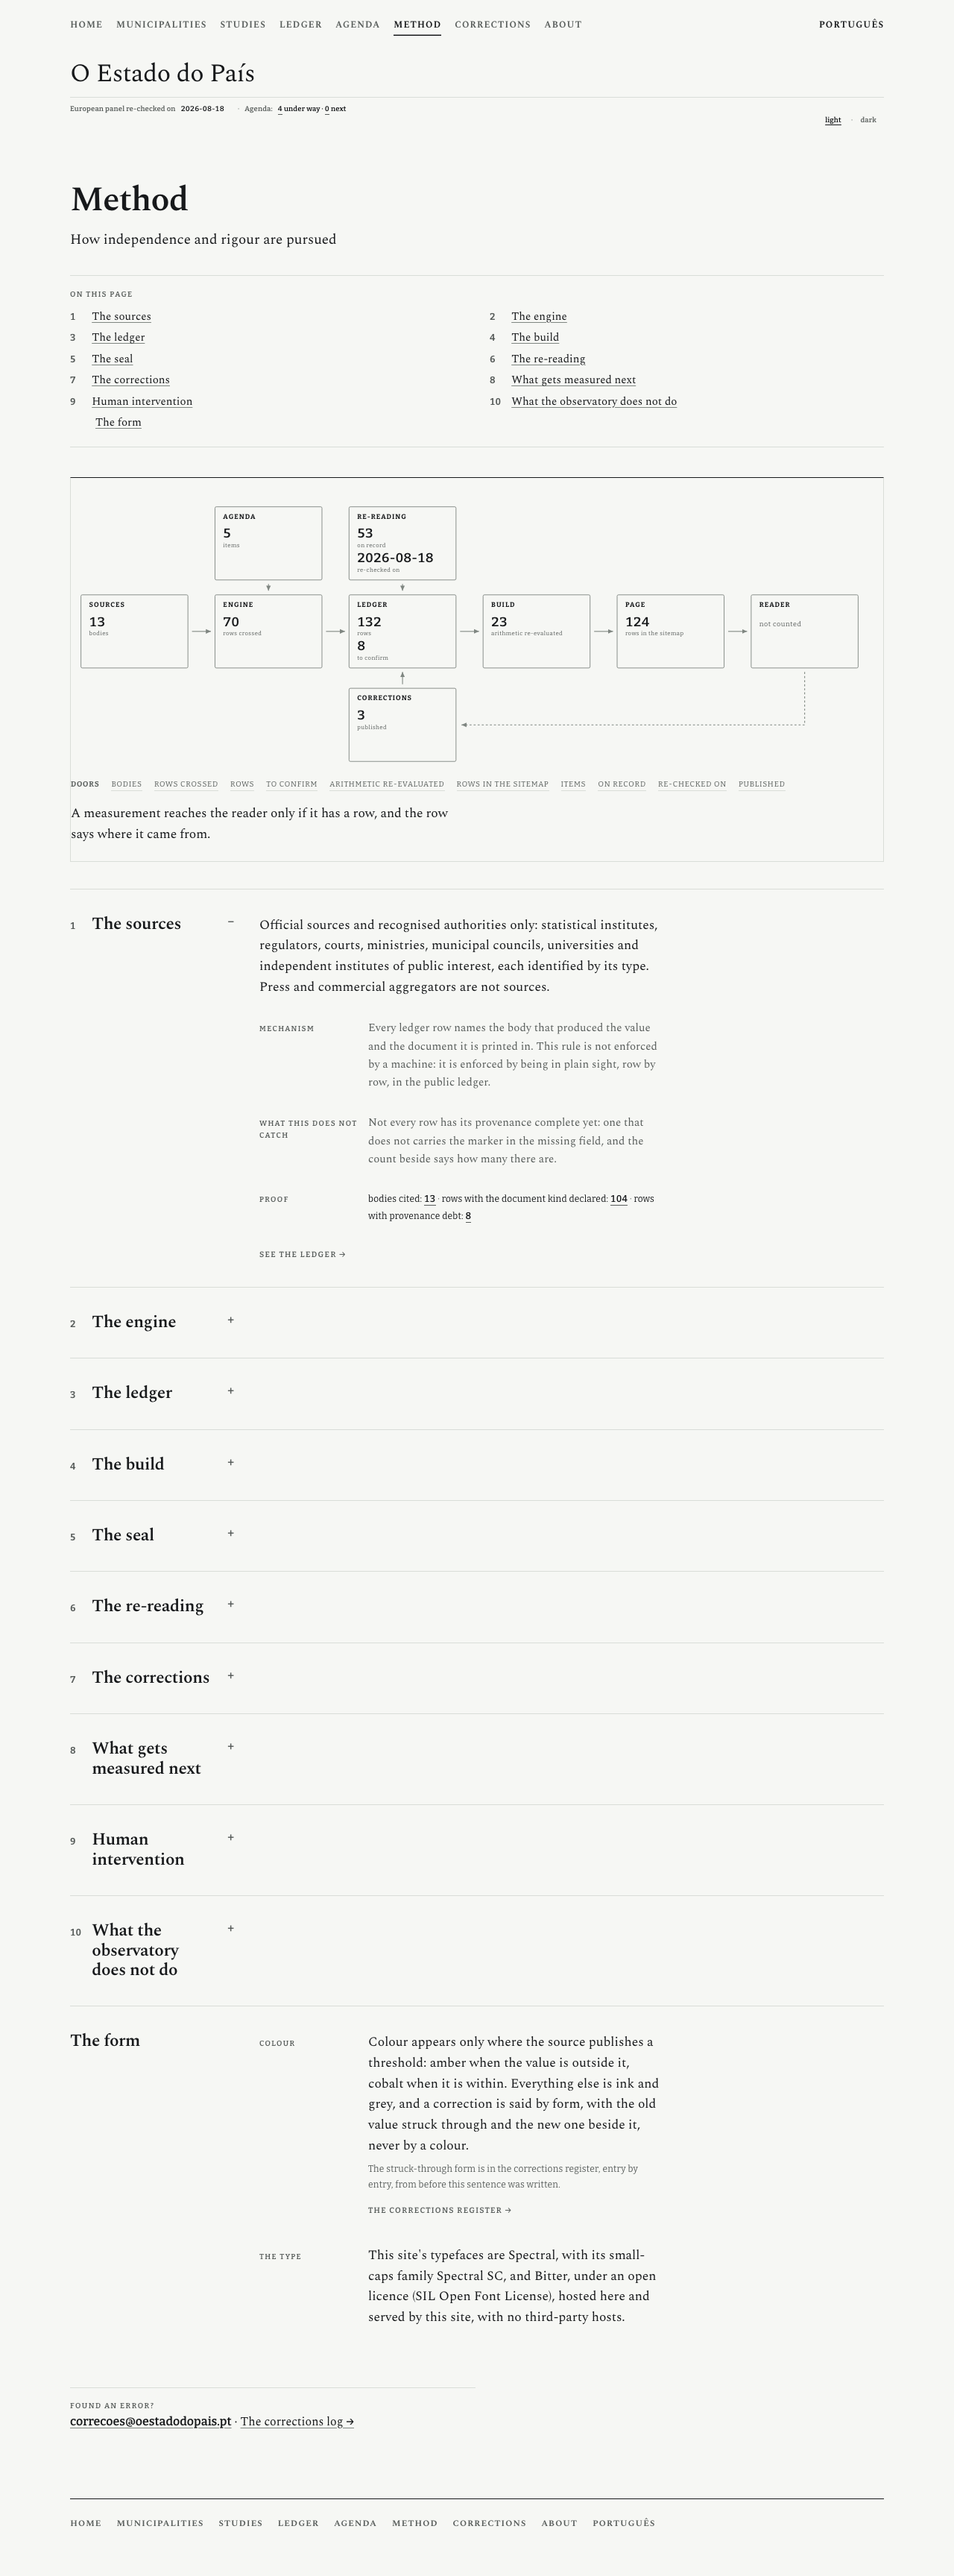
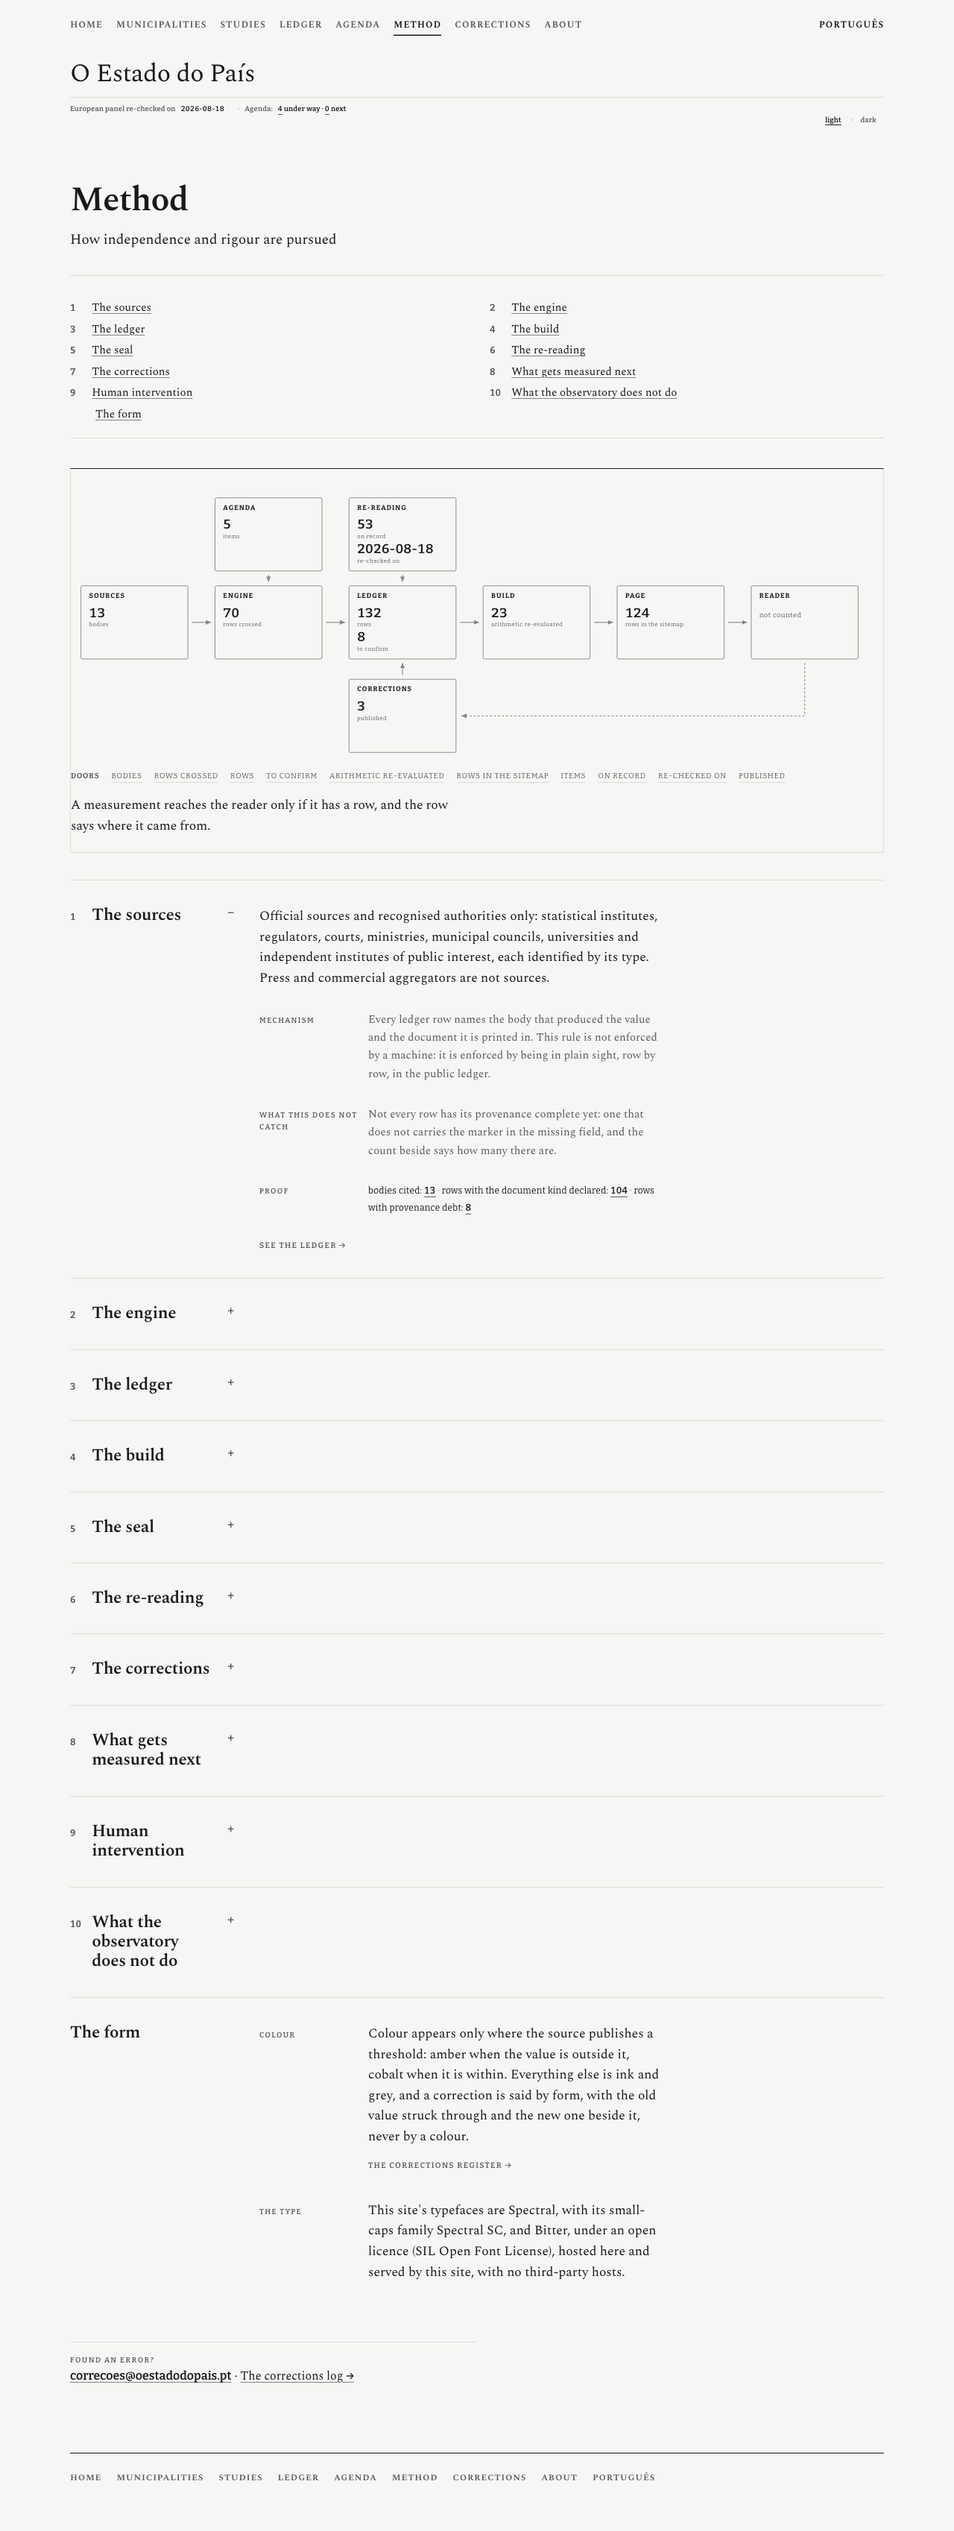
etapa 4, fecho: as réguas, a invariância contra a 4a, e um defeito da 4c apanhado a 390
O sumário do Método rendia «1As fontes», sem goma entre o número e o nome, e só
no telemóvel. A causa foi minha, na 4c: para tirar a coluna do número ao sumário
da Agenda escrevi um selector sobre «li sem classe», e as dez regras do Método
também são li sem classe. Passa a ser a etiqueta da lista, que é o que distingue
mesmo as duas: o Método numera e escreve ol, a Agenda não numera e escreve ul.
Uma regra escrita a partir do que o marcador não tem apanha tudo o que não o tem.

As réguas: build, verify e ledger:check a zero; medir-defeitos com 36 rotas
inventariadas, as 36 a zero de autorreferência e nenhum bloco por classificar;
medir-contraste sem falhas de texto e sem cor nova nesta etapa; as chaves iguais
nas duas edições continuam 20, como na 2m.

A ortografia falha a 1 e é anterior a esta etapa: «tecto» numa comparação de
cadeias num componente da primeira página, que não é meu e não é texto
publicado. Corri a régua na construção da linha de base e falha lá igual. Fica
escrita na nota e nos pedidos em vez de corrigida à socapa.

A invariância, contra uma construção de def04ff num worktree: 322 rotas, 293
idênticas em texto, 29 com diferenças, e as 29 são exactamente as rotas que a
etapa reconstruiu. O +27 −0 do Método foi recontado com uma extracção própria,
porque a régua imprime cinco linhas por rota: 20 são o sumário e 7 a entrada de
fecho. Nada saiu do Método.

Trinta e oito capturas, no tema claro, a 1280 e a 390, nas duas edições.
[…]

diff --git a/src/styles/leitura.css b/src/styles/leitura.css
@@ -223,8 +223,14 @@
 
 /* O sumário da Agenda usa as classes do sumário do Método sem uma regra nova: é
    a mesma peça na mesma folha. O que ele não leva é a coluna do número, porque
-   os estados não são numerados; a lista corre em duas colunas na mesma. */
-.metodo-sumario-lista li:not([class]) {
+   os estados não são numerados, e por isso o item não é uma caixa flexível de
+   duas partes: é uma linha.
+
+   O SELECTOR É A ETIQUETA DA LISTA, e não «um `li` sem classe»: as dez regras do
+   Método também são `li` sem classe, e `:not([class])` apagava-lhes a goma entre
+   o número e o nome — «1As fontes». O Método numera e escreve `<ol>`; a Agenda
+   não numera e escreve `<ul>`. */
+ul.metodo-sumario-lista li {
   display: block;
 }
 

diff --git a/design/especime-v3/notas/stage-4.md b/design/especime-v3/notas/stage-4.md
@@ -741,7 +741,122 @@ de outro construtor e está em duas páginas, e escolher entre os dois é forma.
 
 ---
 
-## 8. O que fica pedido
+## 8. Subetapa 4f · o fecho
+
+### 8.1 · Um defeito da 4c, apanhado a fotografar a 390
+
+O sumário do Método rendia **«1As fontes»**, sem goma entre o número e o nome, e
+só no telemóvel. A causa foi minha, na 4c: para tirar a coluna do número ao
+sumário da Agenda escrevi `.metodo-sumario-lista li:not([class])`, e as dez
+regras do Método também são `li` sem classe — a regra apanhou-as e desligou-lhes
+a caixa flexível. O selector passa a ser a etiqueta da lista, que é o que
+distingue mesmo as duas: **o Método numera e escreve `<ol>`, a Agenda não numera
+e escreve `<ul>`**.
+
+Vai escrito aqui porque é a lição e não o erro: uma regra escrita a partir do que
+o marcador **não tem** apanha tudo o que não o tem.
+
+### 8.2 · As réguas
+
+```
+npm run build         exit 0
+npm run verify        exit 0
+npm run ledger:check  exit 0   (24 entradas a partir da §1.38, 2 textos governados)
+node scripts/medir-defeitos.mjs      exit 0
+node scripts/medir-contraste.mjs     exit 0
+node scripts/medir-tipos.mjs         exit 0
+node scripts/medir-invariancia.mjs --chaves   → 20 chaves iguais nas duas edições
+node scripts/ortografia.mjs          exit 1   (ver 8.4)
+```
+
+**O inventário**, `medir-defeitos.mjs`: **36 rotas inventariadas, as 36 a zero de
+autorreferência, e nenhum bloco por classificar em nenhuma delas.** A lista
+declarada tem 413 entradas, onde a etapa 3 a deixou com 267. A etapa entrou com
+`/agenda`, `/estudos` e as vinte e duas rotas de trabalho.
+
+**O contraste**, `medir-contraste.mjs`: 0 falhas de texto, 4 objetos de interface
+abaixo de 3:1, os mesmos da etapa 1 e nenhum desta. Nenhuma cor nova entrou na
+etapa 4: a única mudança de cor foi um `fill` que passou a nomear o cinzento que
+a folha já pintava.
+
+**As chaves**, `medir-invariancia.mjs --chaves`: **20**, o mesmo número da 2m.
+A etapa não criou nenhuma identidade nova — `leitura.sumarioK` é «Nesta página» /
+«On this page», que são cadeias diferentes.
+
+### 8.3 · A invariância, contra a construção da 4a
+
+Construção da linha de base num `git worktree` em `3a51cb8` (o commit da 4a),
+comparada com a de agora:
+
+```
+322 rotas · 293 idênticas em texto · 29 com diferenças
+```
+
+**As 29 são exactamente as rotas que a etapa reconstruiu**, e nenhuma outra:
+
+| rota(s) | o quê |
+|---|---|
+| `/metodo`, `/en/method` | `+27 −0` |
+| `/agenda`, `/en/agenda` | `+10 −6` |
+| `/municipios/evora`, `/en/municipalities/evora` | `+1 −3` |
+| `/404` | `+1 −1` |
+| as 22 rotas de trabalho (11 × 2 edições) | `+0 −4`, `+0 −3` ou `+1 −4` |
+
+**O `+27 −0` do Método vale a explicação**, porque um número grande sem nada
+retirado parece um erro de leitura. A régua imprime só cinco linhas por rota, e
+por isso recontei o diferencial inteiro com uma extracção própria, que dá o mesmo
+27: **20** são o sumário (os dez números e os dez nomes das regras passam a
+aparecer **duas** vezes na página, e a régua conta ocorrências) e **7** são a
+entrada de fecho («A forma» duas vezes, «A cor» e a sua frase, a porta, «A letra»
+e a sua frase). **Nada saiu do Método**, e é isso que o `−0` diz.
+
+**O `/estudos` e o `/en/studies` não aparecem na lista**, e está certo: a 4e
+mexeu nas páginas de trabalho e na folha, e não numa palavra do índice.
+
+### 8.4 · A régua da ortografia falha, e não é desta etapa
+
+`node scripts/ortografia.mjs` sai a **1**, com uma forma fora da grafia da casa:
+
+```
+src/components/inicio/Peca.astro:216:32  tecto → teto
+    … {regua.rotulo === 'tecto' && ( <Fragment slot="refer…
+```
+
+**Corri a mesma régua na construção da linha de base** (`3a51cb8`) e ela falha lá
+exactamente da mesma maneira: é anterior a esta etapa. É uma comparação de
+cadeias dentro de um componente da primeira página, que é de outro construtor, e
+**não é texto publicado**: `grep -o tecto dist/` dá três ficheiros, e os três são
+o nome de uma classe de CSS (`mun-tecto-rot`), nunca uma palavra que um leitor
+veja. A régua não entra no `npm run build`. Fica escrita aqui em vez de corrigida
+à socapa num ficheiro que não é meu.
+
+### 8.5 · As capturas
+
+`node tests/inicio/capturas.mjs --etapa-4` → **38 capturas** em
+`../capturas/etapa-4/`, todas no tema claro, a 1280 e a 390, nas duas edições:
+
+| rota | ficheiro |
+|---|---|
+| `/metodo` · `/en/method` | `metodo-{1280,390}-{pt,en}-claro.png` |
+| a entrada de fecho, recorte | `metodo-fecho-1280-{pt,en}-claro.png` |
+| `/agenda` · `/en/agenda` | `agenda-{1280,390}-{pt,en}-claro.png` |
+| o eixo do calendário, recorte | `agenda-eixo-1280-{pt,en}-claro.png` |
+| `/correcoes` · `/en/corrections` | `correcoes-{1280,390}-{pt,en}-claro.png` |
+| `/sobre` · `/en/about` | `sobre-{1280,390}-{pt,en}-claro.png` |
+| `/estudos` · `/en/studies` | `estudos-{1280,390}-{pt,en}-claro.png` |
+| `/estudos/agua-nao-faturada` (documento alojado, página por escrever) | `estudo-agua-{1280,390}-{pt,en}-claro.png` |
+| `/estudos/evora-prometido-pago-auditado-2026` (leitura publicada) | `estudo-leitura-{1280,390}-{pt,en}-claro.png` |
+| `/a-verificar` · `/en/to-verify` | `marcador-{1280,390}-{pt,en}-claro.png` |
+| `/404` (uma edição só) | `nao-encontrado-{1280,390}-pt-claro.png` |
+
+Duas coisas que a lista do brief não tinha e que entraram com razão: o **recorte**
+da entrada de fecho e do eixo, porque numa página inteira a 1280 as duas peças da
+etapa medem dois dedos; e a **segunda página de trabalho**, porque a página tem
+dois estados e uma captura só mostrava um.
+
+---
+
+## 9. O que fica pedido
 
 | # | pedido | a quem |
 |---|---|---|
@@ -750,13 +865,22 @@ de outro construtor e está em duas páginas, e escolher entre os dois é forma.
 | 3 | ~~Os três blocos de autorreferência de `/municipios/evora`~~ **Respondido a 21.08.2026, tarde.** Feito na subetapa a seguir (§4 abaixo) | direção, cadeira |
 | 4 | **A leitura de «Quem responde pelo quê»** (§1.2): das três possíveis, escolhi a que põe a frase por cima da banda dos mandatos. Se a cadeira quiser outra, é uma linha | cadeira |
 | 5 | **`IDENTIDADE.md` §2 a citar «A cor»** com a marca, se a cadeira quiser a amarra a guardá-la (§3.6) | cadeira |
+| 6 | **A edição inglesa não tem página de erro** (`ISSUES.md` I53, §6.3): as cadeias já existem em `erro404.*`, o que falta é a rota. Um ficheiro de página e uma declaração | cadeira |
+| 7 | **Dois sinais para a mesma dobra** (`ISSUES.md` I54, §7.5): o triângulo do `.deep` e o `+`/`−` das dobras novas. A Emenda 10 fecha esta porta, e escolher entre os dois é forma | cadeira |
+| 8 | **As duas portas do fim da página do marcador** (§6.4) rendem sem fio e em cinzento, porque `.rodape-nav` é do rodapé. Se a classe se separar em duas, é uma regra | cadeira |
+| 9 | **`ortografia.mjs` falha, e é anterior a esta etapa** (§8.4): `tecto` numa comparação de cadeias em `src/components/inicio/Peca.astro`, que não é meu e não é texto publicado | construtor A |
 
 ---
 
-## 9. Modelo e gasto
+## 10. Modelo e gasto
 
 | | |
 |---|---|
 | modelo | Claude Opus, `claude-opus-5[1m]` |
-| commits | `6b7dab8` (4-0), `3a51cb8` (4a) |
-| preparado e não commetido | 4b, em `4b-pendente.patch` |
+| commits | `6b7dab8` (4-0), `3a51cb8` (4a), `66a2866` (4b), `0e0b274` (Évora, I52), `156b256` (4c), `ecd14f7` (4d), `1fec8f8` (4e), e o do fecho |
+| ficheiros abertos fora da lista da §2 do brief, e porquê | `tests/inicio/capturas.mjs` (o modo `--etapa-4`, §5.5 do brief não o previa; precedente do modo `--etapa-3`), `src/styles/site.css` (a regra `.agenda-eixo-svg rect` e as duas do `.placeholder`, que ficaram sem cliente — é o que o I12 e o item M mandam), `src/data/leituras.mjs` (uma frase, §7.2), `src/data/municipios.mjs` e `src/views/MunicipioView.astro` (a decisão da direção sobre Évora, §4), `src/i18n/strings.mjs` famílias `livro.*` e `municipio.*` no commit 4-0 |
+| plantas provadas e revertidas | duas na 4a (a porta do selo), duas no commit 4-0 (a porta do CSV), duas na 4e (a data do arquivo, e a primeira não provava o que era preciso) |
+
+**O que esta etapa deixou por fazer, e é do brief:** nada da §3. As cinco
+subetapas e o fecho estão commetidas. O que fica são os nove pedidos da §9, que
+são decisões e não construção.

diff --git a/DECISIONS.md b/DECISIONS.md
@@ -9223,6 +9223,59 @@ arquivo (o índice e onze trabalhos, nas duas edições): **autorreferência 0 e
 todas**, e nenhum bloco por classificar — 106 blocos distintos entraram no
 inventário, um a um.
 
+### 1.61 O fecho da etapa 4: as réguas, a invariância contra a construção da 4a, e um defeito da 4c apanhado a 390
+
+**Afecta:** nenhum
+
+*(Subetapa 4f. Uma regra de folha, as capturas e a nota. Nenhum texto, nenhum
+valor.)*
+
+**Um defeito que esta etapa criou e que esta etapa apanhou.** O sumário do Método
+rendia «1As fontes» — sem goma entre o número e o nome — e só no telemóvel. A
+causa foi a 4c: para tirar a coluna do número ao sumário da Agenda escrevi
+`.metodo-sumario-lista li:not([class])`, e as dez regras do Método também são
+`li` sem classe. O selector passa a ser a etiqueta da lista, que é o que
+distingue mesmo as duas listas: o Método numera e escreve `<ol>`, a Agenda não
+numera e escreve `<ul>`. **Uma regra escrita a partir do que o marcador não tem
+apanha tudo o que não o tem**, e é essa a lição.
+
+**As réguas**, todas verdes menos uma, e a uma está explicada:
+
+- `npm run build`, `npm run verify`, `npm run ledger:check` → **0**;
+- `medir-defeitos.mjs` → **36 rotas inventariadas, as 36 a zero de
+  autorreferência, e nenhum bloco por classificar em nenhuma delas**. A lista
+  declarada passou de 267 entradas a 413;
+- `medir-contraste.mjs` → 0 falhas de texto, 4 objetos de interface abaixo de
+  3:1, os mesmos da etapa 1. **Nenhuma cor nova entrou nesta etapa**;
+- `medir-invariancia.mjs --chaves` → **20**, o mesmo número da 2m: a etapa não
+  criou nenhuma identidade PT = EN;
+- `ortografia.mjs` → **1**, e é **anterior a esta etapa**: `tecto` numa
+  comparação de cadeias em `src/components/inicio/Peca.astro`, que corri também
+  na construção da linha de base e falha lá igual. Não é texto publicado (as três
+  ocorrências em `dist/` são o nome de uma classe de CSS) e o ficheiro é de outro
+  construtor. Fica em `ISSUES.md` e na nota em vez de corrigido à socapa.
+
+**A invariância**, contra uma construção de `3a51cb8` (o commit da 4a) num
+`git worktree`:
+
+```
+322 rotas · 293 idênticas em texto · 29 com diferenças
+```
+
+**As 29 são exactamente as rotas que a etapa reconstruiu**, e nenhuma outra: o
+Método e a Agenda nas duas edições, Évora nas duas, o 404, e as vinte e duas
+rotas de trabalho. O índice dos estudos **não** aparece, e está certo: a 4e mexeu
+nas páginas de trabalho e na folha, não numa palavra do índice.
+
+O `+27 −0` do Método está explicado na nota da etapa e foi **recontado com uma
+extracção independente**, porque a régua imprime só cinco linhas por rota e um
+número grande sem nada retirado parece um erro de leitura: 20 são o sumário (os
+dez números e os dez nomes passam a aparecer duas vezes na página) e 7 são a
+entrada de fecho. Nada saiu do Método.
+
+**As capturas:** 38, no tema claro, a 1280 e a 390, nas duas edições, das onze
+rotas e recortes da família da leitura.
+
 ---
 
 ## 4. O registo dos defeitos e dos adiamentos
